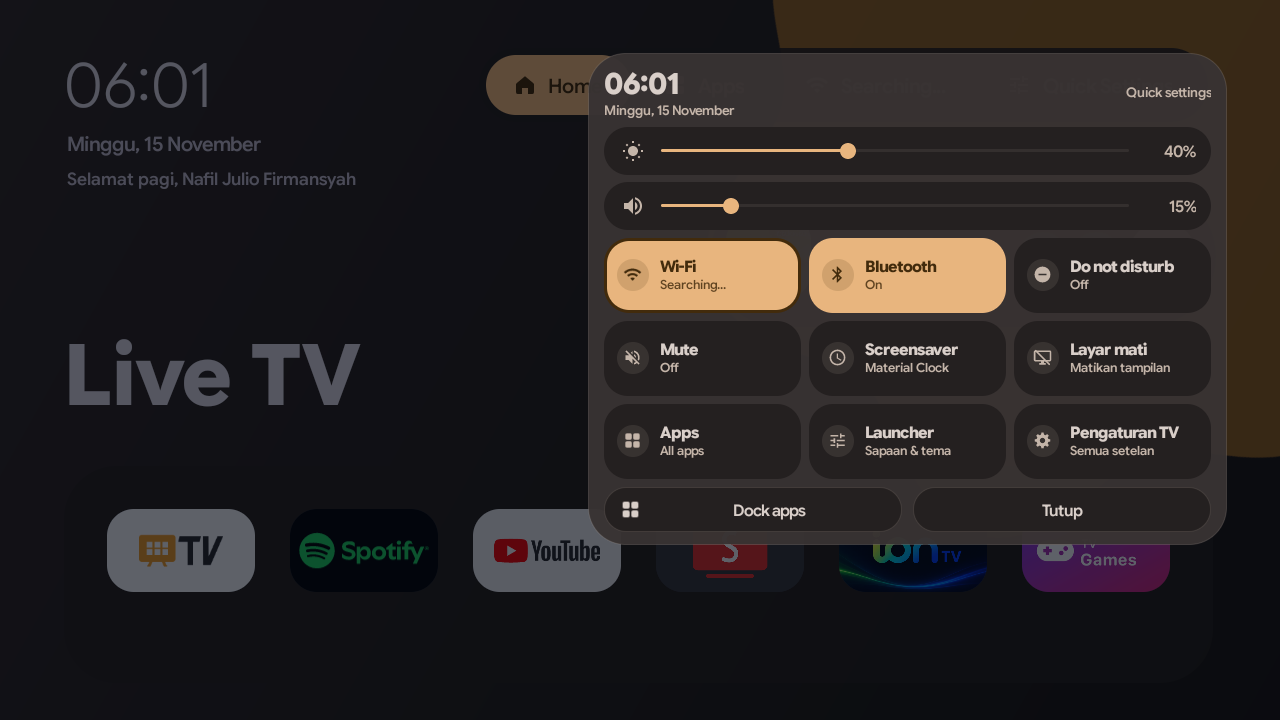
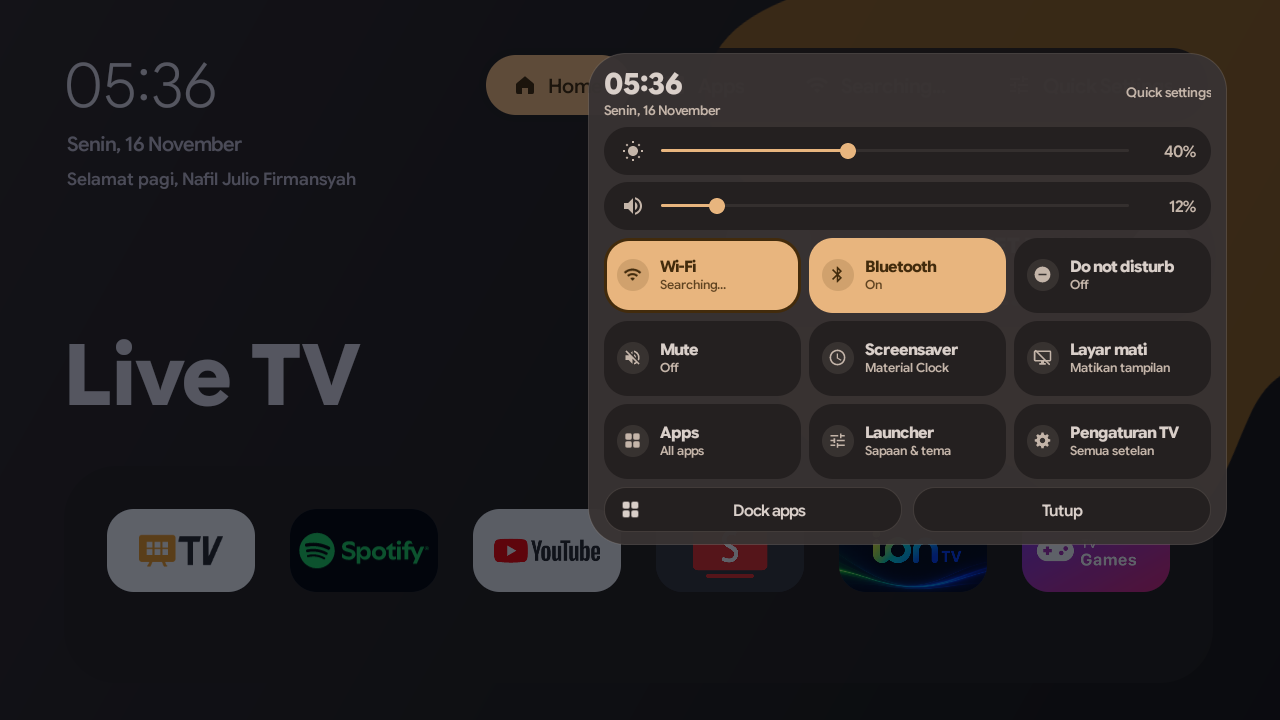
record on-TV test of 0.2.0 focus order

diff --git a/README.en.md b/README.en.md
@@ -177,9 +177,18 @@ Build **0.1.9** (versionCode 232) was tested on **15 November 2026**:
 - Switched back to the Android 17 style; Indonesian, the screensaver, and the screen timeout
   (600,000 ms) are unchanged.
 
-Build **0.2.0** (versionCode 233) makes the quick panel's D-pad order explicit: DOWN from a
-slider always lands on Wi-Fi, the grid steps column by column, and the last row steps into
-Dock apps / Close. The build is done; the on-TV check is pending.
+Build **0.2.0** (versionCode 233) was tested on the same TV on **16 November 2026**:
+
+- `adb install -r` succeeded; the installed version was verified as 0.2.0 (versionCode 233).
+- The D-pad order is now deterministic: DOWN from a slider always lands on **Wi-Fi** (it used to
+  jump to the bottom-right tile), the grid steps column by column, and the last row steps into
+  **Dock apps / Close**.
+- The **One UI** style is enabled and still sits in the top-right corner without clipping; the
+  same focus order applies there.
+- The **Apps** tile opens the app grid and **Close** dismisses the panel.
+- The Android 17 style still works with the new focus order.
+- The TV is left on the **One UI** style; Indonesian, the screensaver, and the screen timeout
+  (600,000 ms) are unchanged.
 
 ## Social media
 

diff --git a/README.md b/README.md
@@ -177,9 +177,18 @@ Build **0.1.9** (versionCode 232) diuji langsung pada **15 November 2026**:
 - Dikembalikan ke gaya Android 17; bahasa Indonesia, screensaver, dan waktu tidur layar
   (600.000 ms) tetap seperti sebelumnya.
 
-Build **0.2.0** (versionCode 233) merapikan urutan fokus D-pad di panel quick settings: DOWN
-dari slider selalu menuju Wi-Fi, grid berjalan per kolom, dan baris terakhir menuju
-Dock apps / Tutup. Build selesai; uji di TV menyusul.
+Build **0.2.0** (versionCode 233) diuji di TV yang sama pada **16 November 2026**:
+
+- Install `adb install -r` berhasil; versi terpasang terverifikasi 0.2.0 (versionCode 233).
+- Urutan fokus D-pad sekarang pasti: dari slider tekan DOWN selalu mendarat di **Wi-Fi**
+  (sebelumnya melompat ke tile kanan bawah), grid turun per kolom, dan baris terakhir turun ke
+  **Dock apps / Tutup**.
+- Gaya **One UI** diaktifkan dan tetap di pojok kanan atas tanpa terpotong; urutan fokus yang
+  sama juga berlaku di gaya ini.
+- Tile **Apps** membuka daftar aplikasi, tombol **Tutup** menutup panel.
+- Gaya Android 17 tetap berfungsi dengan urutan fokus baru.
+- TV dibiarkan memakai gaya **One UI**; bahasa Indonesia, screensaver, dan waktu tidur layar
+  (600.000 ms) tidak berubah.
 
 ## Sosial media
 
